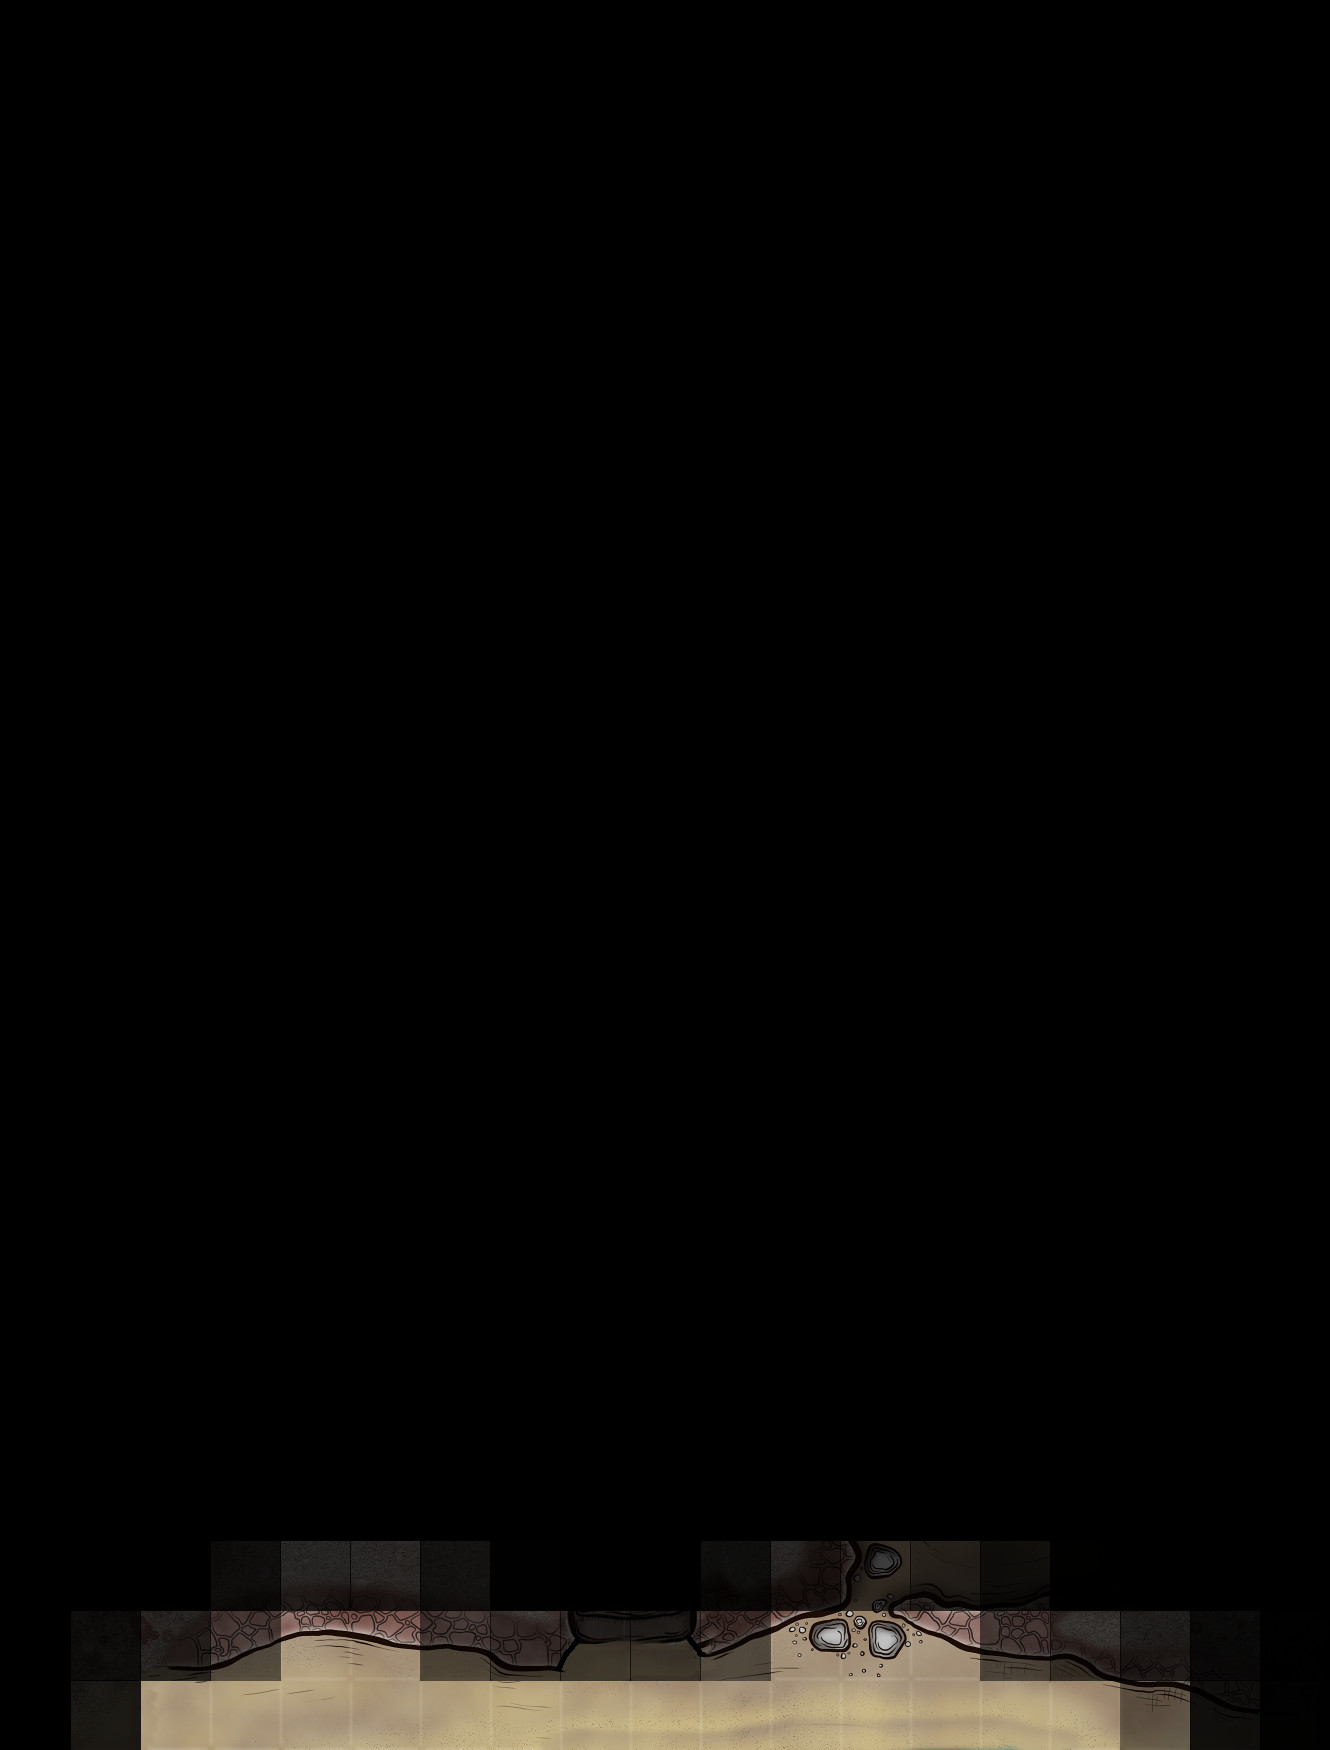
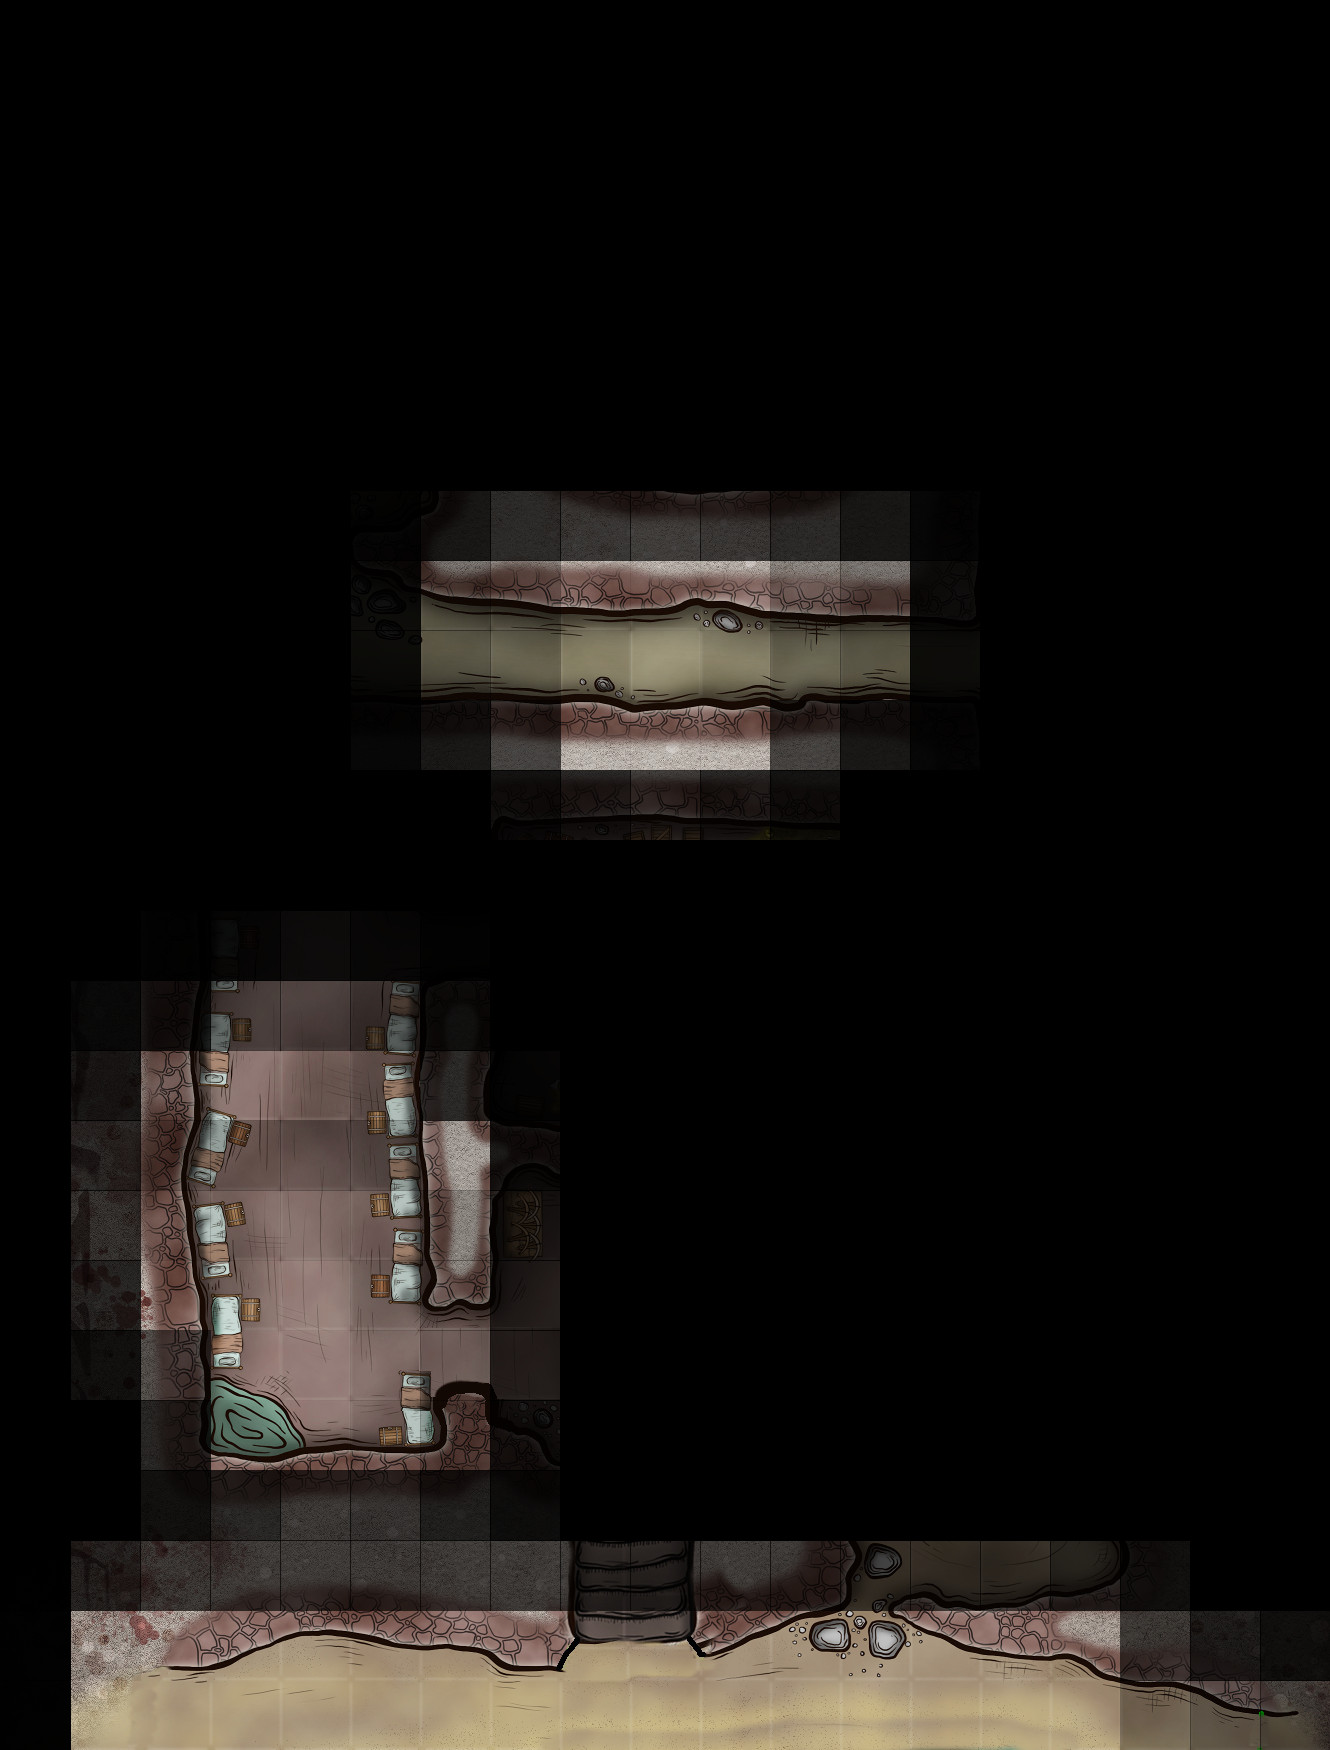
Luces sobre paredes no planas

diff --git a/js/animations.js b/js/animations.js
@@ -314,19 +314,21 @@ async function changeBackground(newBg){
 }
 
 async function changeTokenOpacity(token, newVal){
-	await sleep(1000);
+	//await sleep(1000);
 	var t0 = (new Date).getTime();
 	var tf = t0+1000;
 	var tt = tf-t0;
 	var t = 0.0;
+	var currentOp = Number.parseFloat(token.div.style.opacity);
+	var d = newVal-currentOp;
 	const k = Math.PI/(2*tt);
 	while(t<tt){
 		var p = t/tt;
-		token.div.style.opacity = p;
+		token.div.style.opacity = currentOp+p*d;
 		await sleep(T_PRECISION);
 		t = (new Date).getTime() - t0;
 	}
-	token.div.style.opacity = 1;
+	token.div.style.opacity = newVal;
 }
 
 

diff --git a/rq/libControllers.php b/rq/libControllers.php
@@ -262,9 +262,23 @@ function apply_lights(&$board, $im_walls, $im_full){
 		}
 
 	$black = imagecolorallocate($im_full, 0, 0, 0);
-	$rs_pc = get_tokens_by_pc($board->id, 1);
+	# Generate sources of light
 	$rs_lights = get_lights_by_board_id($board->id);
-	while($light = mysqli_fetch_array($rs_lights)){
+	$arr_sources = array();
+	while($light = mysqli_fetch_array($rs_lights, MYSQLI_ASSOC)){
+		array_push($arr_sources, $light);
+	}
+	$rs_pc = get_tokens_by_pc($board->id, 1);
+	while ($pc = mysqli_fetch_array($rs_pc, MYSQLI_ASSOC)){
+		$intensity = get_attr($board->id, $pc['name'], 'light');
+		if ($intensity!=null){
+			array_push($arr_sources, array('intensity'=>$intensity, 'tilex'=>$pc['x'], 'tiley'=>$pc['y']));
+		}
+	}
+	mysqli_data_seek($rs_pc, 0);
+
+	# Compute lights
+	foreach($arr_sources as $light){
 		//echo "LUZ ".$light['tilex']." ".$light['tiley']." I:".$light['intensity']." ID".$light['light_id'];
 		$max_d = $light['intensity'];
 		$pi2 = 3.14/2.0;
@@ -272,24 +286,25 @@ function apply_lights(&$board, $im_walls, $im_full){
 		for($d=0; $d<=$max_d; $d++){
 			$arrBlack[$d] = imagecolorallocatealpha($im_full, 0, 0, 0, 127*cos($pi2*(($d/$max_d))));
 		}
-		for ($y=1; $y<=$board->ntilesh; $y++){
-			for ($x=1; $x<=$board->ntilesw; $x++){
+		$x_min = max(1, $light['tilex']-$light['intensity']);
+		$x_max = min($board->ntilesw, $light['tilex']+$light['intensity']);
+		$y_min = max(1, $light['tiley']-$light['intensity']);
+		$y_max = min($board->ntilesh, $light['tiley']+$light['intensity']);
+		for ($y=$y_min; $y<=$y_max; $y++){
+			for ($x=$x_min; $x<=$x_max; $x++){
 				$d = floor(distance_tiles($light['tilex'], $light['tiley'], $x, $y));
-				//if ($x==5 && $y==25) error_log($light['tilex']);
 				if ($d<=$max_d) {
-					$v1 = n_corners_visible($board,$im_walls, $light['tilex'],$light['tiley'],$x,$y,2)==2;
-					if ($v1){
+					$n_corners = n_corners_visible($board,$im_walls, $light['tilex'],$light['tiley'],$x,$y,1);
+				//if ($light['tilex']==9 && $light['tiley']==25 && $x==8 && $y==17) error_log("TEST ".$n_corners);
+					if ($n_corners>=1){
 						while($token=mysqli_fetch_array($rs_pc, MYSQLI_ASSOC)){
-							$v2 = isVisible_between_tiles($board, $im_walls, $token['x'], $token['y'], $x, $y);
-							if ($v2){
+							//$v2 = isVisible_between_tiles($board, $im_walls, $token['x'], $token['y'], $x, $y);
+							$n_corners = n_corners_visible($board,$im_walls, $token['x'],$token['y'],$x,$y,1);
+							if ($n_corners>=1){
 								$intensity = 127*cos($pi2*(($d/$max_d)));
-								//if ($x==3 && $y==22) error_log("L: $intensity");
-								$arr_lights[$x][$y] = $arr_lights[$x][$y] + $intensity;
-								$arr_lights2[$x][$y] = $arr_lights[$x][$y] + $intensity;
-								if ($arr_lights[$x][$y]>127) {
-									$arr_lights[$x][$y] = 127;
-									$arr_lights2[$x][$y] = 127;
-								}	
+								//$intensity = 127;
+								$arr_lights[$x][$y] = min($arr_lights[$x][$y] + $intensity, 127);
+								$arr_lights2[$x][$y] = $arr_lights[$x][$y];
 							}
 						}
 						mysqli_data_seek($rs_pc, 0);
@@ -298,24 +313,25 @@ function apply_lights(&$board, $im_walls, $im_full){
 			}
 		}
 	}
-	# Compute dispersión de la luz
-	$dispersion = 0.7;
+	$dispersion =0.9;
 	for ($y=1; $y<=$board->ntilesh; $y++){
 		for ($x=1; $x<=$board->ntilesw; $x++){
 			if ($arr_lights2[$x][$y]<64){
 				$total = 0;
-				$total += $arr_lights[$x-1][$y-1]*$dispersion;
-				$total += $arr_lights[$x+1][$y-1]*$dispersion;
-				$total += $arr_lights[$x+1][$y+1]*$dispersion;
-				$total += $arr_lights[$x-1][$y+1]*$dispersion;
-				$total += $arr_lights[$x][$y-1];
-				$total += $arr_lights[$x][$y+1];
-				$total += $arr_lights[$x+1][$y];
-				$total += $arr_lights[$x-1][$y];
-				$arr_lights[$x][$y] = $arr_lights[$x][$y] + $total/8;
+				$total += $arr_lights2[$x-1][$y-1]*$dispersion;
+				$total += $arr_lights2[$x+1][$y-1]*$dispersion;
+				$total += $arr_lights2[$x+1][$y+1]*$dispersion;
+				$total += $arr_lights2[$x-1][$y+1]*$dispersion;
+				$total += $arr_lights2[$x][$y-1];
+				$total += $arr_lights2[$x][$y+1];
+				$total += $arr_lights2[$x+1][$y];
+				$total += $arr_lights2[$x-1][$y];
+				$arr_lights[$x][$y] = min($arr_lights[$x][$y] + $total/8, 127);
+				//if ($x==10 && $y==18) error_log("TEST ".$arr_lights[$x][$y]);
 			}
 		}
 	}
+	# Apply lights over .jpg
 	for ($y=1; $y<=$board->ntilesh; $y++){
 		for ($x=1; $x<=$board->ntilesw; $x++){
 			$px = ($x-1)*70;
@@ -329,14 +345,18 @@ function apply_lights(&$board, $im_walls, $im_full){
 	imagejpeg($im_full, '../img/bg/'.$board->bg.'.jpg', 90);
 
 	# Show visible NPC
-	$rsNpcTokens = get_npc_hidden_tokens($board->id);
-	while($npc = mysqli_fetch_array($rsNpcTokens, MYSQLI_ASSOC)){
+	$rsNpc = get_tokens_enemy($board->id,1);
+	while($npc = mysqli_fetch_array($rsNpc, MYSQLI_ASSOC)){
 		$intensity = $arr_lights[$npc['x']][$npc['y']];
+		//if ($npc['name']=="Luca") error_log("LUCA");
+		//error_log($npc['name']." I".$intensity);
 		if ($intensity>32){
 			//error_log("INTENSIDAD $intensity para ver a ".$npc['name']);
 			//if (can_see_tokens($im_bg_wall, $token, $npc, $board)){
-				set_token_opacity_by_name($board->id, $npc['name'], $intensity);
+			set_token_opacity_by_name($board->id, $npc['name'], 1);
 			//}
+		} else {
+			set_token_opacity_by_name($board->id, $npc['name'], 0);
 		}
 	}
 }

diff --git a/rq/libSql.php b/rq/libSql.php
@@ -41,6 +41,8 @@ function reset_db(){
 	run_sql($query) or die();
 	$query = "TRUNCATE inventory;";
 	run_sql($query) or die();
+	$query = "TRUNCATE lights;";
+	run_sql($query) or die();
 }
 
 function secure_param($name){
@@ -91,7 +93,7 @@ function get_board($idBoard){
 	$query = "SELECT * FROM boards WHERE id = $idBoard LIMIT 1;";
 	$result = run_sql($query) or die();
 	$row = mysqli_fetch_array($result, MYSQLI_ASSOC);
-	$row['bgTs'] = get_bg_ts($idBoard);
+	//$row['bgTs'] = get_bg_ts($idBoard);
 	$ret = new stdClass();
 	$ret->id = $row['id'];
 	$ret->name = $row['name'];
@@ -413,7 +415,15 @@ function insert_board($board){
 	$query.= " VALUES (null, '$board->name', $board->lights,$board->tilew, $board->tileh, $board->ntilesw, $board->ntilesh, ";
 	$query.= " $board->offsetx, $board->offsety, '$board->bg', $board->drawGrid, 0, 1) ";
 	$result = run_sql($query) or die();
-	return mysqli_insert_id($db);
+	$lastBoardId = mysqli_insert_id($db);
+	if (property_exists($board, 'lights_array')){
+		foreach($board->lights_array as $light){
+			$q = "INSERT INTO lights (intensity, board_id, tilex, tiley)";
+			$q.= "	VALUES ($light->intensity, $lastBoardId, $light->x, $light->y)";
+			run_sql($q) or die();
+		}
+	}
+	return $lastBoardId;
 }
 
 function set_default_guideline_id($idBoard, $tokenName, $guide_id){

diff --git a/rq/import.php b/rq/import.php
@@ -46,8 +46,8 @@ foreach($files as $file){
 }
 $board = get_board($idBoard);
 if ($board->lights==1){
-	$im_walls = imagecreatefrompng("../img/bg/".$board->bg."_walls.png");
-	$im_full = imagecreatefromjpeg("../img/bg/".$board->bg."_full.jpg");
+	$im_walls = imagecreatefrompng("../img/bg/".$board_file->bg."_walls.png");
+	$im_full = imagecreatefromjpeg("../img/bg/".$board_file->bg."_full.jpg");
 	apply_lights($board, $im_walls, $im_full);
 }
-echo "LOADED";
+echo "LOADED ".time();

diff --git a/rq/getActions.php b/rq/getActions.php
@@ -13,7 +13,6 @@ $n = secure_param('n');
 if ($n>0 && $n<=10){
 	$query = "SELECT * FROM (SELECT * FROM actions WHERE idBoard = $idBoard ";
 	$query.= "AND idUser = 1 ORDER BY ts DESC LIMIT $n) AS var ORDER BY ts ASC";
-	error_log("ACTION $query");
 	$result = run_sql($query) or die();
 
 	#header('Content-Type: text/html; charset=utf-8');
